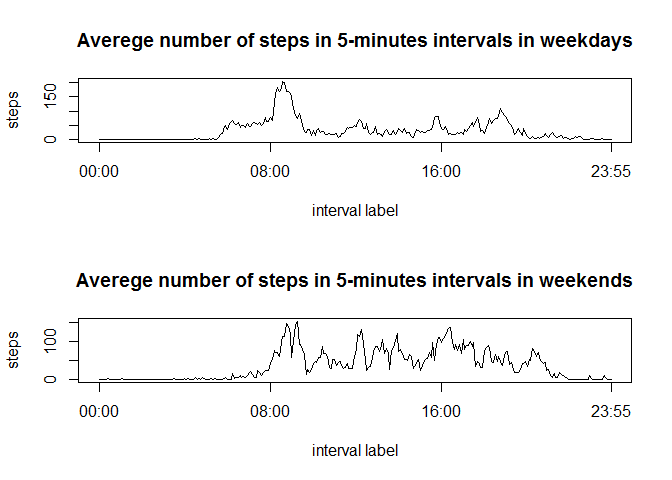
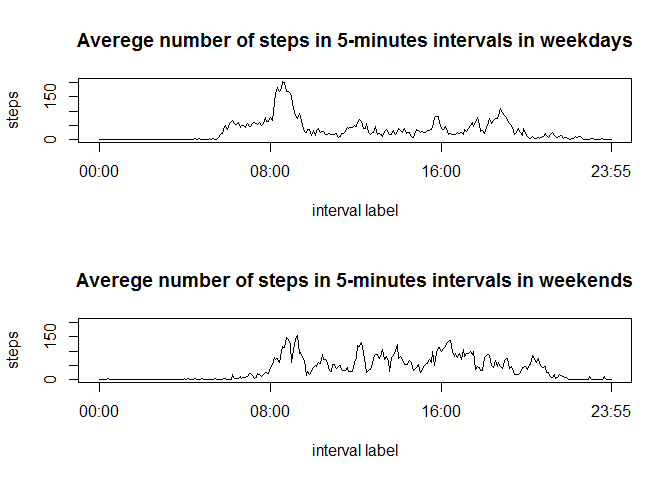
some improvements to plots

diff --git a/PA1_template.html b/PA1_template.html
@@ -151,6 +151,7 @@ for (i in 1:length(data.raw$interval)){
 <pre class="r"><code>plot(intraday, t='l',
      main='Averege number of steps in 5-minutes intervals',
      xlab='interval label',
+     ylab='steps',
      xaxt='n')
 index&lt;- data.raw$interval==0 | 
       data.raw$interval==800 | 
@@ -158,7 +159,7 @@ index&lt;- data.raw$interval==0 |
       data.raw$interval==2355 
 axis(1, at=(1:length(intraday))[index],
      labels=data.raw$interval.char[1:length(intraday)][index])</code></pre>
[2 lines of base64/hex data omitted]
 <p>Let’s see in which interval the average is the highest</p>
 <pre class="r"><code>max(intraday)</code></pre>
 <pre><code>## [1] 206.1698</code></pre>
@@ -243,6 +244,7 @@ plot(intraday.weekdays, t='l',
      main='Averege number of steps in 5-minutes intervals in weekdays',
      xlab='interval label',
      ylab='steps',
+     ylim=c(0, max(intraday.weekends,intraday.weekdays)),
      xaxt='n')
 index&lt;- data$interval==0 | 
       data$interval==800 | 
@@ -255,6 +257,7 @@ plot(intraday.weekends, t='l',
      main='Averege number of steps in 5-minutes intervals in weekends',
      xlab='interval label',
      ylab='steps',
+     ylim=c(0, max(intraday.weekends,intraday.weekdays)),
      xaxt='n')
 index&lt;- data$interval==0 | 
       data$interval==800 | 
@@ -262,7 +265,7 @@ index&lt;- data$interval==0 |
       data$interval==2355 
 axis(1, at=(1:length(intraday.weekends))[index],
      labels=data$interval.char[1:length(intraday.weekends)][index])</code></pre>
[2 lines of base64/hex data omitted]
 <p>It looks like people starts moving earlier in weekdays than in weekends. However, later during the day the average number of steps seems to be higher in weekends.</p>
 </div>
 

diff --git a/PA1_template.md b/PA1_template.md
@@ -139,6 +139,7 @@ Let's see the daily pattern.
 plot(intraday, t='l',
      main='Averege number of steps in 5-minutes intervals',
      xlab='interval label',
+     ylab='steps',
      xaxt='n')
 index<- data.raw$interval==0 | 
       data.raw$interval==800 | 
@@ -301,6 +302,7 @@ plot(intraday.weekdays, t='l',
      main='Averege number of steps in 5-minutes intervals in weekdays',
      xlab='interval label',
      ylab='steps',
+     ylim=c(0, max(intraday.weekends,intraday.weekdays)),
      xaxt='n')
 index<- data$interval==0 | 
       data$interval==800 | 
@@ -313,6 +315,7 @@ plot(intraday.weekends, t='l',
      main='Averege number of steps in 5-minutes intervals in weekends',
      xlab='interval label',
      ylab='steps',
+     ylim=c(0, max(intraday.weekends,intraday.weekdays)),
      xaxt='n')
 index<- data$interval==0 | 
       data$interval==800 | 
